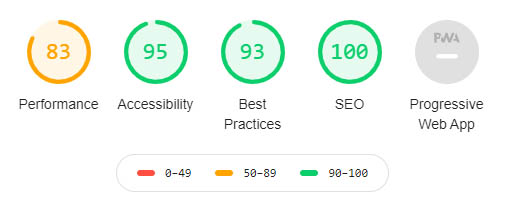
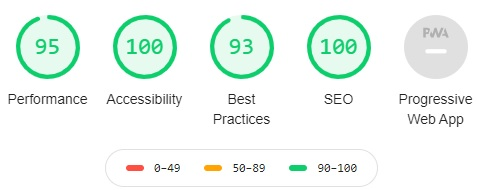
work with lighthouse, updated lighthouse section in Readme

diff --git a/index.html b/index.html
@@ -130,37 +130,37 @@
                             <div class="carousel-inner">
                                 <div class="carousel-item active">
                                     <img src="assets/images/java.jpg" alt="Java">
-                                    <h4><em>Java</em></h4>
+                                    <h3><em>Java</em></h3>
                                     <p class="caption">I can create software that can operate throughout a business, for example a store that keeps track of stock etc. Although my use of this language is now minimal.</p>
                                 </div>
                                 <div class="carousel-item">
                                     <img src="assets/images/html.jpg" alt="HTML 5">
-                                    <h4><em>HTML 5</em></h4>
+                                    <h3><em>HTML 5</em></h3>
                                     <p class="caption">I use HTML 5 to develop the architecture of a webpage, add content and form the foundations of any interface between the user and a business.</p>
                                 </div>
                                 <div class="carousel-item">
                                     <img src="assets/images/bootstrap.jpg" alt="Bootstrap">
-                                    <h4><em>Bootstrap</em></h4>
+                                    <h3><em>Bootstrap</em></h3>
                                     <p class="caption">Bootstrap is an extremely useful tool to add features to a project. I use Bootstrap mainly in the structure or foundations of a project.</p>
                                 </div>
                                 <div class="carousel-item">
                                     <img src="assets/images/css.jpg" alt="CSS 3">
-                                    <h4><em>CSS 3</em></h4>
+                                    <h3><em>CSS 3</em></h3>
                                     <p class="caption">As a HTML document without CSS is just text and links, I use CSS to design and add a custom layout and feel to every project I work on. This can be as basic or advanced as you wish.</p>
                                 </div>
                                 <div class="carousel-item">
                                     <img src="assets/images/javascript.jpg" alt="JavaScript">
-                                    <h4><em>JavaScript</em></h4>
+                                    <h3><em>JavaScript</em></h3>
                                     <p class="caption">With JavaScript being capable of dealing with data in motion as well as provide website functionality, I use JavaScript to enhance user experience amongst other tasks.</p>
                                 </div>
                                 <div class="carousel-item">
                                     <img src="assets/images/python.jpg" alt="Python">
-                                    <h4><em>Python</em></h4>
+                                    <h3><em>Python</em></h3>
                                     <p class="caption">Python is a very useful language to deal with data in motion. I use this language as the intermediary between back end databases and the front end development (user interface).</p>
                                 </div>
                                 <div class="carousel-item">
                                     <img src="assets/images/sql.jpg" alt="SQL">
-                                    <h4><em>SQL</em></h4>
+                                    <h3><em>SQL</em></h3>
                                     <p class="caption">SQL is a back end language which allows me to deal with data held within a database. This allows me to create projects that allow the storage of user data (such as a user profile).</p>
                                 </div>
                             </div>
@@ -181,7 +181,7 @@
         <section class="project-container section-container">
             <div class="container projects">
                 <div class="col-12 page-header" id="projects">
-                    <h2 class="text-uppercase">Projects</h2>
+                    <h3 class="text-uppercase">Projects</h3>
                     <p>
                         Showcasing complete functional projects demonstrates what I can bring to your project. I have created these<br>
                         projects from the ground up to demonstrate my skills in both front-end & back-end development. You can view<br>
@@ -230,7 +230,7 @@
                             </p>
                             <p>
                                 <a class="btn btn-sm btn-info" href="https://Love-Running-Sign-Up-Challenge-1-Structure.jonobrien.repl.co" rel="noreferrer" target="_blank">View The Live Page</a>
-                                <a class="btn btn-sm btn-success" href="" rel="noreferrer" target="_blank">No Repository Available</a>
+                                <button class="btn btn-sm btn-success">No Repository Available</button>
                             </p>
                             <hr class="block-divider block-divider--short">
                         </div>
@@ -243,8 +243,8 @@
                                 I am open to any new projects you may want to collaborate on! <br>Get in contact if you would like to work together on a project!<br><strong>I look forward to hearing from you!</strong>
                             </p>
                             <p>
-                                <a class="btn btn-sm btn-info" href="" rel="noreferrer" target="_blank">No Page Available</a>
-                                <a class="btn btn-sm btn-success" href="" rel="noreferrer" target="_blank">No Repository Available</a>
+                                <button class="btn btn-sm btn-info">No Page Available</button>
+                                <button class="btn btn-sm btn-success">No Repository Available</button>
                             </p>
                             <hr class="block-divider block-divider--short">
                         </div>
@@ -266,7 +266,7 @@
                     <div class="col-12 col-md-6">
                         <div class="feature">
                             <h3>Full Stack Development</h3>
-                            <a href="" data-toggle="modal" data-target="#fullStack"><img class="product-image" src="assets/images/full-stack.jpg" alt="full stack development image"></a>
+                            <a href="#" data-toggle="modal" data-target="#fullStack"><img class="product-image" src="assets/images/full-stack.jpg" alt="full stack development image"></a>
                             <p class="description">
                                 Full Stack Development is a key role in any organization. Click read more to see how I can help!<br>
                             </p>
@@ -277,7 +277,7 @@
                     <div class="col-12 col-md-6">
                         <div class="feature">
                             <h3>Graphic Design</h3>
-                            <a href="" data-toggle="modal" data-target="#graphics"><img class="product-image" src="assets/images/graphic-design.jpg" alt="graphic design image"></a>
+                            <a href="#" data-toggle="modal" data-target="#graphics"><img class="product-image" src="assets/images/graphic-design.jpg" alt="graphic design image"></a>
                             <p class="description">
                                 Graphics are a great way to make your website more appealing. Click read more to see how I can help! <br>
                             </p>
@@ -288,7 +288,7 @@
                     <div class="col-12 col-md-6">
                         <div class="feature">
                             <h3>Content Writing</h3>
-                            <a href="" data-toggle="modal" data-target="#contentWriting"><img class="product-image" src="assets/images/content-writing.jpg" alt="content writing image"></a>                            
+                            <a href="#" data-toggle="modal" data-target="#contentWriting"><img class="product-image" src="assets/images/content-writing.jpg" alt="content writing image"></a>                            
                             <p class="description">
                                 Content is king! Keyword rich content can help you rank well on search engines. Click read more to see how I can help!<br>
                             </p>
@@ -299,7 +299,7 @@
                     <div class="col-12 col-md-6">
                         <div class="feature">
                             <h3>SEO</h3>
-                            <a href="" data-toggle="modal" data-target="#SEO"><img class="product-image" src="assets/images/SEO.jpg" alt="search engine optimization (seo) image"></a> 
+                            <a href="#" data-toggle="modal" data-target="#SEO"><img class="product-image" src="assets/images/SEO.jpg" alt="search engine optimization (seo) image"></a> 
                             <p class="description">
                                 Getting noticed online can be difficult, but is important for an online business. Click read more to see how I can help!<br>
                             </p>
@@ -361,7 +361,7 @@
             <div class="container">
                 <div class="row">
                     <div class="col-sm">
-                        <h5>Contact Me:</h5>
+                        <h3>Contact Me:</h3>
                         <p>
                         <strong>Name:</strong><em> Jonathan O'Brien</em><br>
                         <strong>Email:</strong><em> JonathanMichaelOBrien@Gmail.com</em>
@@ -379,7 +379,7 @@
                         </p>
                     </div>
                     <div class="col-sm">
-                    <h5 class="uppercase general-sub">Social:</h5>
+                    <h3 class="uppercase general-sub">Social:</h3>
                         <ul class="list-inline social-links">
                             <li class="list-inline-item">
                                 <a target="_blank" href="https://github.com/j-o-b" rel="noreferrer">

diff --git a/README.md b/README.md
@@ -213,18 +213,22 @@ dev tools to ensure compliance across all categories.
 ![Lighthouse Test](assets/readme/lighthouse.jpg)
 
 ### Performance:
-> To boost my performance score, I have changed all my images to .jpg format, as well as lowered their size, but not to a point that changed their overall quality. This
-is why my performance score is not higher. I was not willing to lower the quality of the design element of my page to improve this score.
+> To boost my performance score, I have changed all my images to .jpg format, as well as lowered their size, but not to a point that changed their overall quality. To 
+raise this score, I could possibly have used "next gen" format such as WebP. With that being said, I was not willing to lower the quality of the design of my page to 
+improve this score.
 
 ### Accessibility:
 > To increase accessibility I have used alt text, screen reader text (where needed) and have implemented JavaScript buttons for my audio file instead of the basic 
-HTML 'audio controls', this will allow users who cannot use a mouse access the specific buttons.
+HTML 'audio controls', this will allow users who cannot use a mouse access the specific buttons. This page also implements structured heading order. I have also implemented 
+colors, and designs that are accepted under [WCAG](https://www.w3.org/WAI/standards-guidelines/wcag/) (Web Content Accessibility Guidelines).
 
 ### Best Practices:
-> Unfortunately this section seemed to pick up that my logo should have been bigger, even though my logo is sized specific to this project and is therefore displayed at 100%. Once again, I chose the design feature of having my logo was more important than raising this section to 100%.
+> Unfortunately lighthouse was picking up my image as if it should be a larger image ("Expected Size: 486 x 180"), I did try to see how this size worked, but I did not 
+like the look, hence the lower score.
 
 ### SEO:
-> Being a basic HTML document this project follows the basic SEO principles including a meta description, a favicon, and other basic SEO principles.
+> Being a basic HTML document this project follows the basic SEO principles including a meta description, a favicon, and other basic SEO principles such as heading 
+structure paragraph lengths and other features.
 
 --------------------
 ## **Deployment**
